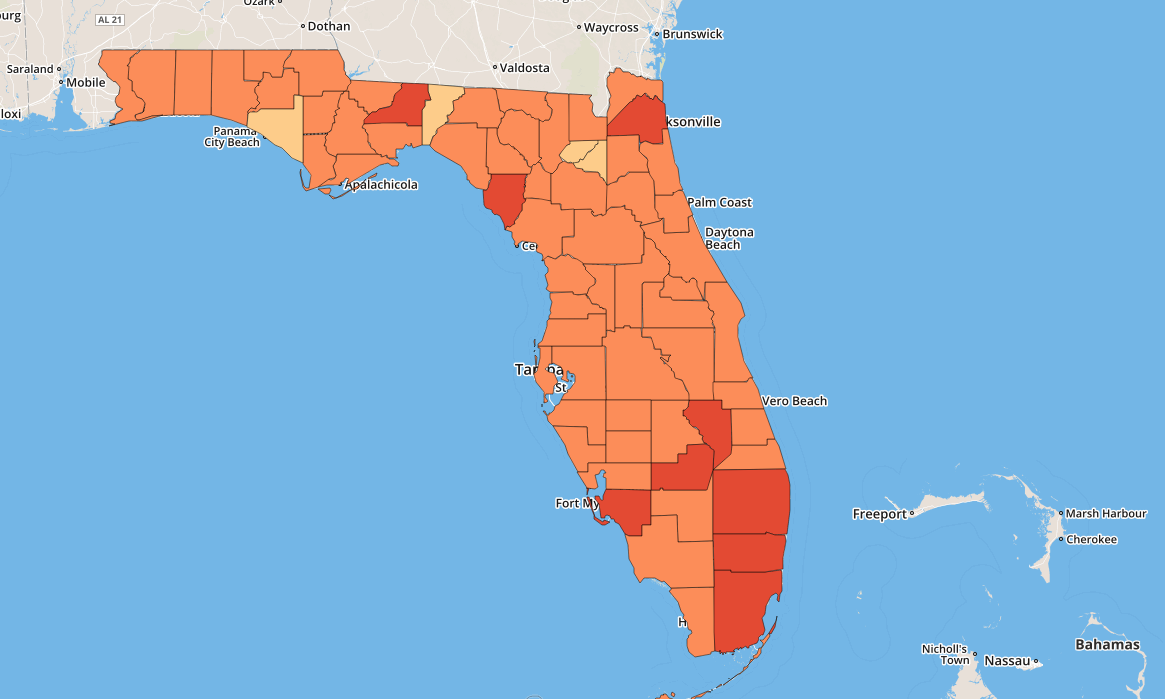
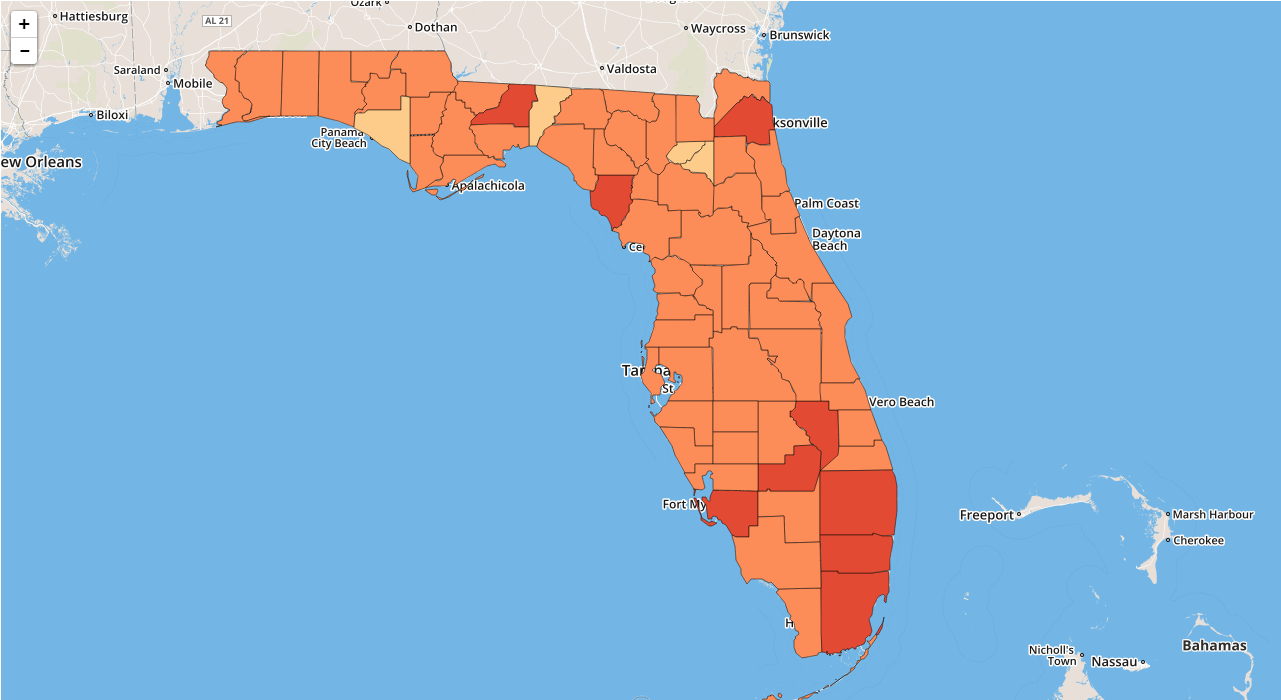
Fixed errors with results.html, cleaned results.css

diff --git a/Web/Results.html b/Web/Results.html
@@ -5,21 +5,110 @@
     <title>FLorida 2014</title>
     <link rel="stylesheet" type="text/css" href="Results.css">
   </head>
+<header>
+  <div class="navbar">
+    <a href="Homepage.html">Home</a>
+      <div class="dropdown">
+          <button class="dropbtn">By State
+            <i class="fa fa-caret-down"></i>
+          </button>
+            <div class="dropdown-content">
+              <a href="Results.html">Alabama</a>
+              <a href="Results.html">Alaska</a>
+              <a href="Results.html">Arizona</a>
+              <a href="Results.html">Arkansas</a>
+              <a href="Results.html">California</a>
+              <a href="Results.html">Colorado</a>
+              <a href="Results.html">Connecticut</a>
+              <a href="Results.html">Delaware</a>
+              <a href="Results.html">Florida</a>
+              <a href="Results.html">Georgia</a>
+              <a href="Results.html">Hawaii</a>
+              <a href="Results.html">Idaho</a>
+              <a href="Results.html">Illinois</a>
+              <a href="Results.html">Indiana</a>
+              <a href="Results.html">Iowa</a>
+              <a href="Results.html">Kansas</a>
+              <a href="Results.html">Kentucky</a>
+              <a href="Results.html">Louisiana</a>
+              <a href="Results.html">Maine</a>
+              <a href="Results.html">Maryland</a>
+              <a href="Results.html">Massachusett</a>
+              <a href="Results.html">Michigan</a>
+              <a href="Results.html">Minnesota</a>
+              <a href="Results.html">Mississippi</a>
+              <a href="Results.html">Missouri</a>
+              <a href="Results.html">Montana</a>
+              <a href="Results.html">Nebraska</a>
+              <a href="Results.html">Nevada</a>
+              <a href="Results.html">New Hampshire</a>
+              <a href="Results.html">New Jersey</a>
+              <a href="Results.html">New Mexico</a>
+              <a href="Results.html">New York</a>
+              <a href="Results.html">North Carolina</a>
+              <a href="Results.html">North Dakota</a>
+              <a href="Results.html">Ohio</a>
+              <a href="Results.html">Oklahoma</a>
+              <a href="Results.html">Oregon</a>
+              <a href="Results.html">Pennsylvania</a>
+              <a href="Results.html">Rhode Island</a>
+              <a href="Results.html">South Carolina</a>
+              <a href="Results.html">South Dakota</a>
+              <a href="Results.html">Tennessee</a>
+              <a href="Results.html">Texas</a>
+              <a href="Results.html">Utah</a>
+              <a href="Results.html">Vermont</a>
+              <a href="Results.html">Virginia</a>
+              <a href="Results.html">Washington</a>
+              <a href="Results.html">West Virginia</a>
+              <a href="Results.html">Wisconsin</a>
+              <a href="Results.html">Wyoming</a>
+              <a href="Results.html">District of Columbia</a>
+              <a href="Results.html">Puerto Rico</a>
+              <a href="Results.html">Guam</a>
+              <a href="Results.html">American Samoa</a>
+              <a href="Results.html">U.S. Virgin Islands</a>
+              <a href="Results.html">Northern Mariana Islands</a>
+            </div>
+        </div>
+      <div class="dropdown">
+          <button class="dropbtn">By Year
+            <i class="fa fa-caret-down"></i>
+          </button>
+            <div class="dropdown-content">
 
-  <ul>
-		<li><a href="Homepage.html">Home</a></li>
-		<li><a href="Results.html">By States</a></li>
-		<li><a href="">By Years</a></li>
-	   <li><a href="">Citation</a></li>
-		<li><a href="DataInfo.html">About the Data</a></li>
-  </ul>
+              <a href="Results.html"> 1999  </a>
+              <a href="Results.html"> 2000  </a>
+              <a href="Results.html"> 2001  </a>
+              <a href="Results.html"> 2002  </a>
+              <a href="Results.html"> 2003  </a>
+              <a href="Results.html"> 2004  </a>
+              <a href="Results.html"> 2005  </a>
+              <a href="Results.html"> 2006  </a>
+              <a href="Results.html"> 2007  </a>
+              <a href="Results.html"> 2008  </a>
+              <a href="Results.html"> 2009  </a>
+              <a href="Results.html"> 2010  </a>
+              <a href="Results.html"> 2011  </a>
+              <a href="Results.html"> 2012  </a>
+              <a href="Results.html"> 2013  </a>
+              <a href="Results.html"> 2014  </a>
+              <a href="Results.html"> 2015  </a>
+              <a href="Results.html"> 2016  </a>
+              <a href="Results.html"> 2017  </a>
 
+            </div>
+        </div>
+    <a href="DataInfo.html">Citation</a>
+    <a href="DataInfo.html">About the Data</a>
+    </div>
+</header>
   <body>
 
     <div class = "middle">
-      <h1 class="column">Florida:</h1>
+      <h1 class="column">Florida 2014:</h1>
       <h1 class="column">Cause of Death</h1>
-      <p><img src="FloridaCrime.png" alt="Crime Map of Florida" width="50%" height="30%"><img src="FloridaCrimeGraph.png" alt="Pie Graph of Causes of Death of Floridan Homicides" width="50%", hight="50%"></p>
+      <p><img src="FloridaCrime2.png" alt="Map of Floridan Homicides" width="50%", hight="50%"><img src="FloridaCrimeGraph.png" alt="Pie Graph of Causes of Death of Floridan Homicides" width="50%", hight="50%"></p>
       <div class="column">
         <p>Florida Homicide Average: 5.6 hpy per 100,000 people</p>
         <p>United States Homicide Average: 5.1 hpy per 100,000 people</p>

diff --git a/Web/Results.css b/Web/Results.css
@@ -1,3 +1,71 @@
+.navbar {
+  overflow: hidden;
+  background-color: #00053D;
+  font-family: Arial;
+}
+
+.navbar a {
+  float: left;
+  font-size: 16px;
+  color: white;
+  text-align: center;
+  padding: 14px 16px;
+  text-decoration: none;
+}
+
+/* The dropdown container */
+.dropdown {
+  float: left;
+  overflow: auto;
+}
+
+/* Dropdown button */
+.dropdown .dropbtn {
+  font-size: 16px;
+  border: none;
+  outline: none;
+  color: white;
+  padding: 14px 16px;
+  background-color: inherit;
+  font-family: inherit; /* Important for vertical align on mobile phones */
+  margin: 0; /* Important for vertical align on mobile phones */
+}
+
+/* Add a red background color to navbar links on hover */
+.navbar a:hover, .dropdown:hover .dropbtn {
+  background-color: #1525D6;
+}
+
+/* Dropdown content (hidden by default) */
+.dropdown-content {
+  display: none;
+  position: absolute;
+  background-color: #f9f9f9;
+  min-width: 160px;
+  box-shadow: 0px 8px 16px 0px rgba(0,0,0,0.2);
+  z-index: 1;
+}
+
+/* Links inside the dropdown */
+.dropdown-content a {
+  float: none;
+  color: black;
+  padding: 12px 16px;
+  text-decoration: none;
+  display: block;
+  text-align: left;
+}
+
+/* Add a grey background color to dropdown links on hover */
+.dropdown-content a:hover {
+  background-color: #ddd;
+}
+
+/* Show the dropdown menu on hover */
+.dropdown:hover .dropdown-content {
+  display: block;
+}
+
 .column{
   float: left;
   width: 50%;
@@ -5,18 +73,7 @@
 img{
   box-shadow: 10px 10px 5px grey;
 }
-.grid-container{
-  display: grid;
-  grid-template-columns: auto auto;
-  background-color: white;
-  padding: 10px;
-}
-.grid-item{
-  background-color: white;
-  border: 1px solid black;
-  padding: 5px;
-  text-align: center;
-}
+
 
 .fullLine{
   clear: both;
@@ -50,19 +107,14 @@ main {
   background-color: #FFFFFF;
 }
 
-.left, .right {
-  flex: 0 2 20%;
-  background-color: #FFFFFF;
-}
+
 .middle {
   margin: 15%;
   margin-top: 5%;
   background-color: white;
 
 }
-.middleText {
-  flex:1 1 300px;
-}
+
 ul {
   list-style-type: none;
   margin: 0;
